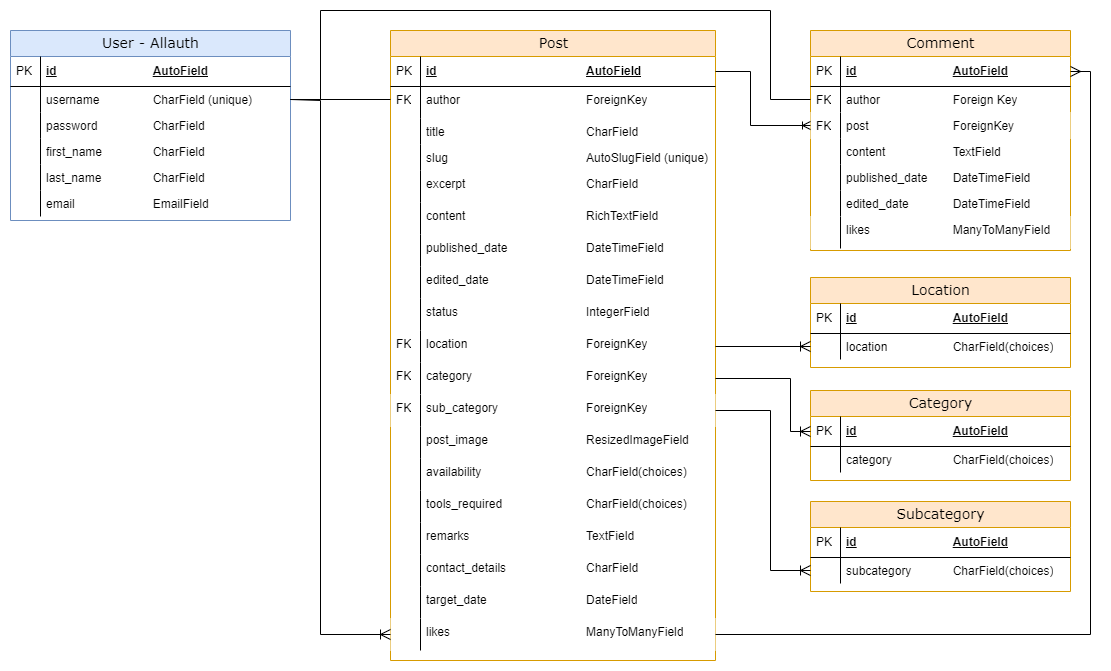
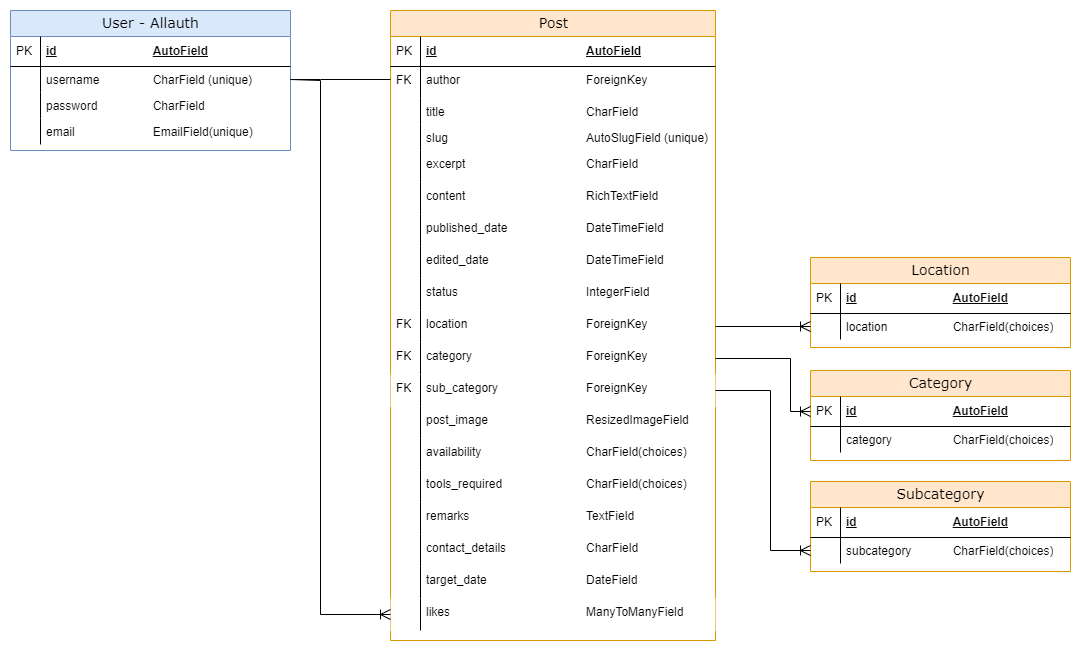
Refactor code: remove comment feature
- Add a DateInput  widget for target_date to  PostForm to improve user experience for adding posts if setting a target date
- Remove CommentModel from project due to time constraint (models.py, views.py, forms.py, urls.py, admin.py, ERD)
- Remove Profile model from ERD, but keep Post model field status for a future implementation of Profile model, set default to published
- Remove status (draft) field from PostForm
- Refactor constant TOOLS_REQUIRED on Post model to show human-readable value on dropdown menu in PostForm and on website.
- Style success alert messages for user feedback for CRUD functualities in base.html template

diff --git a/templates/base.html b/templates/base.html
@@ -2,16 +2,20 @@
 
 <!DOCTYPE html>
 <html lang="en">
+
 <head>
     <meta charset="UTF-8">
     <meta name="viewport" content="width=device-width, initial-scale=1.0">
     {% block extra_css %}
-    <link href="https://cdn.jsdelivr.net/npm/bootstrap@5.2.3/dist/css/bootstrap.min.css" rel="stylesheet" integrity="sha384-rbsA2VBKQhggwzxH7pPCaAqO46MgnOM80zW1RWuH61DGLwZJEdK2Kadq2F9CUG65" crossorigin="anonymous">
+    <link href="https://cdn.jsdelivr.net/npm/bootstrap@5.2.3/dist/css/bootstrap.min.css" rel="stylesheet"
+        integrity="sha384-rbsA2VBKQhggwzxH7pPCaAqO46MgnOM80zW1RWuH61DGLwZJEdK2Kadq2F9CUG65" crossorigin="anonymous">
     <link rel="stylesheet" href="{% static '/css/base.css' %}">
     {% endblock %}
-    
+
     {% block onload_js %}
-    <script src="https://cdn.jsdelivr.net/npm/bootstrap@5.2.3/dist/js/bootstrap.bundle.min.js" integrity="sha384-kenU1KFdBIe4zVF0s0G1M5b4hcpxyD9F7jL+jjXkk+Q2h455rYXK/7HAuoJl+0I4" crossorigin="anonymous"></script>
+    <script src="https://cdn.jsdelivr.net/npm/bootstrap@5.2.3/dist/js/bootstrap.bundle.min.js"
+        integrity="sha384-kenU1KFdBIe4zVF0s0G1M5b4hcpxyD9F7jL+jjXkk+Q2h455rYXK/7HAuoJl+0I4" crossorigin="anonymous">
+    </script>
     {% endblock %}
     <title>Helping Hands, Happy Hearts - {% block title %}{% endblock %}</title>
     <!-- Favicon -- Credits: https://www.flaticon.com/free-icons/charity" title="charity icons">Charity icons created by surang - Flaticon -->
@@ -21,15 +25,19 @@
     <link rel="icon" type="image/png" sizes="64x64" href="{% static 'favicon/favicon-solidarity-64.png' %}">
     <link rel="icon" type="image/png" sizes="128x128" href="{% static 'favicon/favicon-solidarity-128.png' %}">
 </head>
+
 <body>
     {% include 'includes/header.html' %}
     {% if messages %}
-        {% for message in messages %}
-        <div class="alert alert-{{ message.tags }} alert-dismissible fade show col-xs-8 col-md-4 text-center" role="alert">
+    {% for message in messages %}
+    <div class="d-flex justify-content-center col-xs-8 col-lg-4 text-center">
+        <div class="alert alert-{{ message.tags }} alert-dismissible fade show"
+            role="alert">
             {{ message }}
             <button type="button" class="btn-close" data-bs-dismiss="alert" aria-label="Close"></button>
         </div>
-        {% endfor %}
+    </div>
+    {% endfor %}
     {% endif %}
     <main>
         {% block content %}
@@ -37,7 +45,8 @@
 
     </main>
     {% include 'includes/footer.html' %}
-<!-- Fontawesome Kit -->
-<script src="https://kit.fontawesome.com/c62380739e.js" crossorigin="anonymous"></script>
+    <!-- Fontawesome Kit -->
+    <script src="https://kit.fontawesome.com/c62380739e.js" crossorigin="anonymous"></script>
 </body>
+
 </html>

diff --git a/static/css/base.css b/static/css/base.css
@@ -126,10 +126,6 @@ Same for definition of second shadow.
     margin-left: 40px;
 }
 
-.comment-count {
-    margin-left: 40px;
-}
-
 /* Forms Django allauth -------------------- */
 .form {
     /*width: 100%;*/

diff --git a/board/views.py b/board/views.py
@@ -14,8 +14,8 @@ from django.utils.decorators import method_decorator
 from django.contrib import messages
 from django.http import HttpResponseRedirect
 from django.urls import reverse_lazy
-from .models import Post, Comment
-from .forms import PostForm, CommentForm
+from .models import Post
+from .forms import PostForm
 
 
 # Create your views here.
@@ -41,7 +41,6 @@ class PostDetail(DetailView):
     """
     Display detailed view of posts on Offers & Requests
     Related to :model:`board.Post`
-    and :model:`board.Comment`
     **Context**
     Context object name customized for readability.
     ``post``
@@ -52,10 +51,6 @@ class PostDetail(DetailView):
         An instance of :model:`board.Post`
     ``total_likes``
         An instance of :model:`board.Post`
-    ``comments``
-        All comments related to the post
-    ``comment_count``
-        A count of comments related to the post
     ***Template:***
     :template:`board/post_detail.html`
     """
@@ -74,13 +69,6 @@ class PostDetail(DetailView):
         elif 'pk' in self.kwargs:
             return get_object_or_404(Post, pk=self.kwargs['pk'])
 
-    def get_context_data(self, **kwargs):
-        context = super().get_context_data(**kwargs)
-        post = self.get_object()
-        context["comments"] = Comment.objects.filter(post=post)
-        return context
-
-    #@method_decorator(login_required)
     def post(self, request, *args, **kwargs):
         """
         Handles the like button.
@@ -204,46 +192,3 @@ class DeletePost(LoginRequiredMixin, UserPassesTestMixin, SuccessMessageMixin, D
         Returns False if user is not content author and throws 403 error.
         """
         return self.request.user == self.get_object().author
-
-
-class AddComment(LoginRequiredMixin, CreateView):
-    """
-    Creates a comment to a specific post
-    Display Add Comment view and handles creating a comment
-    LoginRequiredMixin checks if user is logged in before running CreateView
-    If user is not logged in and attempts to add post, it redirects user to login page
-    CreateView handles form to add a post in the DOM
-    Related to :model:`board.Comment`
-    **Context**
-    Context object name customized for readability
-    ``queryset``
-        All comments related to a single post
-    ***Template:***
-    :template:`board/post_detail.html`
-    ``comment_form``
-        An instance of :form:`board.CommentForm`
-    ``post``
-        An instance of :model:`board.Post`
-    """
-
-    template_name = "board/post_detail.html"
-    model = Comment
-    form_class = CommentForm
-    success_message = "Your comment has been posted!"
-
-    def form_valid(self, form):
-        """
-        Handles form submission to add comment
-        Provides success message as user feedback
-        """
-        post_id = self.kwargs.get('post_id')
-        post = get_object_or_404(Post, pk=post_id)
-        form.instance.author = self.request.user
-        form.instance.post = post
-        return super().form_valid(form)
-
-    def get_success_url(self):
-        """
-        Returns URL to redirect to after a successfully adding comment.
-        """
-        return reverse_lazy("post_detail", kwargs={"pk": self.object.post.pk})

diff --git a/board/models.py b/board/models.py
@@ -15,9 +15,9 @@ AVAILABILITY_CHOICES = [
 ]
 
 TOOLS_REQUIRED = [
-    ("have", "I Have the Necessary Tools"),
-    ("need", "Tools Required - which I Do Not Have"),
-    ("n.a.", "No Tools Required"),
+    ("I Have the Necessary Tools", "I Have the Necessary Tools"),
+    ("Tools Required - which I Do Not Have", "Tools Required - which I Do Not Have"),
+    ("No Tools Required", "No Tools Required"),
 ]
 
 
@@ -97,7 +97,6 @@ class Post(models.Model):
     """
     Stores a user post entry.
     Related to :model:`auth.User`
-    and :model:`Comment`
     and :model:`Location`
     and :model:`Category`
     and :model:`Subcategory`.
@@ -112,7 +111,7 @@ class Post(models.Model):
     content = RichTextField(max_length=5000, null=False, blank=False)
     published_date = models.DateTimeField(auto_now_add=True)
     edited_date = models.DateTimeField(auto_now=True)
-    status = models.IntegerField(choices=STATUS, default=0)
+    status = models.IntegerField(choices=STATUS, default=1)
     location = models.ForeignKey(
         Location,
         related_name="post_location",
@@ -171,28 +170,3 @@ class Post(models.Model):
 
     def __str__(self):
         return f"{self.title} | posted by {self.author}"
-
-
-class Comment(models.Model):
-    """
-    Stores a user comment entry.
-    Related to :model:`auth.User`
-    and :model:`blog.Post`.
-    """
-
-    post = models.ForeignKey(Post, related_name="comments", on_delete=models.CASCADE)
-    author = models.ForeignKey(User, related_name="commenter", on_delete=models.CASCADE)
-    body = models.TextField()
-    published_date = models.DateTimeField(auto_now=True)
-    edited_date = models.DateTimeField(auto_now=True)
-    likes = models.ManyToManyField(User, blank=True, related_name="liked_comment")
-
-    class Meta:
-        """
-        Orders the comments in chronological order, newes first.
-        """
-
-        ordering = ["published_date"]
-
-    def __str__(self):
-        return f"Comment: {self.body} by {self.author}"

diff --git a/board/forms.py b/board/forms.py
@@ -1,9 +1,7 @@
 from django import forms
 from django.forms import ModelForm
-
-# from djrichtextfield.widgets import RichTextWidget
 from ckeditor.fields import RichTextField
-from .models import Post, Comment
+from .models import Post
 
 
 class PostForm(forms.ModelForm):
@@ -26,7 +24,6 @@ class PostForm(forms.ModelForm):
             "title",
             "excerpt",
             "content",
-            "status",
             "location",
             "category",
             "subcategory",
@@ -42,6 +39,7 @@ class PostForm(forms.ModelForm):
         widgets = {
             "excerpt": forms.Textarea(attrs={"rows": 5}),
             "remarks": forms.Textarea(attrs={"rows": 5}),
+            "target_date": forms.DateInput(format="%Y-%m-%d", attrs={'type': 'date'}), 
         }
 
         labels = {
@@ -59,23 +57,3 @@ class PostForm(forms.ModelForm):
             "contact_details": "Contact Details (Email or Phone)",
             "target_date": "Target Date",
         }
-
-
-class CommentForm(forms.ModelForm):
-    """
-    Form to create a comment on a post.
-    Related to :model:`board.Comment`
-    and :model:`board.Post`.
-    ***Template:***
-    :template:`board/post_detail.html`
-    """
-
-    class Meta:
-        """
-        Defines the form fields
-        """
-
-        model = Comment
-        fields = [
-            "body",
-        ]

diff --git a/board/migrations/0006_alter_post_status_alter_post_tools_required_and_more.py b/board/migrations/0006_alter_post_status_alter_post_tools_required_and_more.py
@@ -1,0 +1,40 @@
+# Generated by Django 4.2.13 on 2024-05-23 21:59
+
+from django.db import migrations, models
+
+
+class Migration(migrations.Migration):
+
+    dependencies = [
+        ("board", "0005_remove_post_bookmarks_post_contact_details_and_more"),
+    ]
+
+    operations = [
+        migrations.AlterField(
+            model_name="post",
+            name="status",
+            field=models.IntegerField(
+                choices=[(0, "Draft"), (1, "Published")], default=1
+            ),
+        ),
+        migrations.AlterField(
+            model_name="post",
+            name="tools_required",
+            field=models.CharField(
+                blank=True,
+                choices=[
+                    ("I Have the Necessary Tools", "I Have the Necessary Tools"),
+                    (
+                        "Tools Required - which I Do Not Have",
+                        "Tools Required - which I Do Not Have",
+                    ),
+                    ("No Tools Required", "No Tools Required"),
+                ],
+                max_length=50,
+                null=True,
+            ),
+        ),
+        migrations.DeleteModel(
+            name="Comment",
+        ),
+    ]

diff --git a/board/urls.py b/board/urls.py
@@ -1,6 +1,6 @@
 from django.urls import path
 from . import views
-from .views import AddPost, Board, PostDetail, DeletePost, EditPost, AddComment
+from .views import AddPost, Board, PostDetail, DeletePost, EditPost
 
 
 urlpatterns = [
@@ -10,5 +10,4 @@ urlpatterns = [
     path("delete/<slug:slug>/", views.DeletePost.as_view(), name="delete_post"),
     path("edit/<slug:slug>/", views.EditPost.as_view(), name="edit_post"),
     path('posts/<slug:slug>/<int:pk>/like/', views.PostDetail.as_view(), name='like_post'),
-    path("board/board/post/<int:post_id>/add_comment/", views.AddComment.as_view(), name="add_comment"),
 ]

diff --git a/board/admin.py b/board/admin.py
@@ -1,6 +1,6 @@
 from django.contrib import admin
 from django_summernote.admin import SummernoteModelAdmin
-from .models import Post, Comment, Location, Category, Subcategory
+from .models import Post, Location, Category, Subcategory
 
 
 # Register your models here.
@@ -28,4 +28,3 @@ class PostAdmin(SummernoteModelAdmin):
 admin.site.register(Location)
 admin.site.register(Category)
 admin.site.register(Subcategory)
-admin.site.register(Comment)

diff --git a/README.md b/README.md
@@ -142,9 +142,9 @@ The Entity Relationship Diagram (ERD, see below) was created using before starti
 Each Django model is represented with a table on the ERD along with its attributes and model fields.
 
 **Database Overview:**
-- **Key Features:** Stores user posts, and comments.
+- **Key Features:** Stores user posts.
 - **User Management:** The models utilize the Django Allauth User model.
-- **Content Management:** Users can create and update own content, interact with other users by commenting on and liking content and comments.
+- **Content Management:** Users can create and update own content, interact with other users by liking content.
 - **Technical Design:** Separation of concern was implemented by deviding key components into individual Django Models *(see ERD)*. This allows for simple and reliable queries based on the primary key, as well as easy management and scalability.
 - **Relationships** between the model fields are indicated with relationship lines on the ERD.
 - **Security Practises:** Security best practices were obtained using CSRF Tokens for data protection and authentication using Django Allauth.
